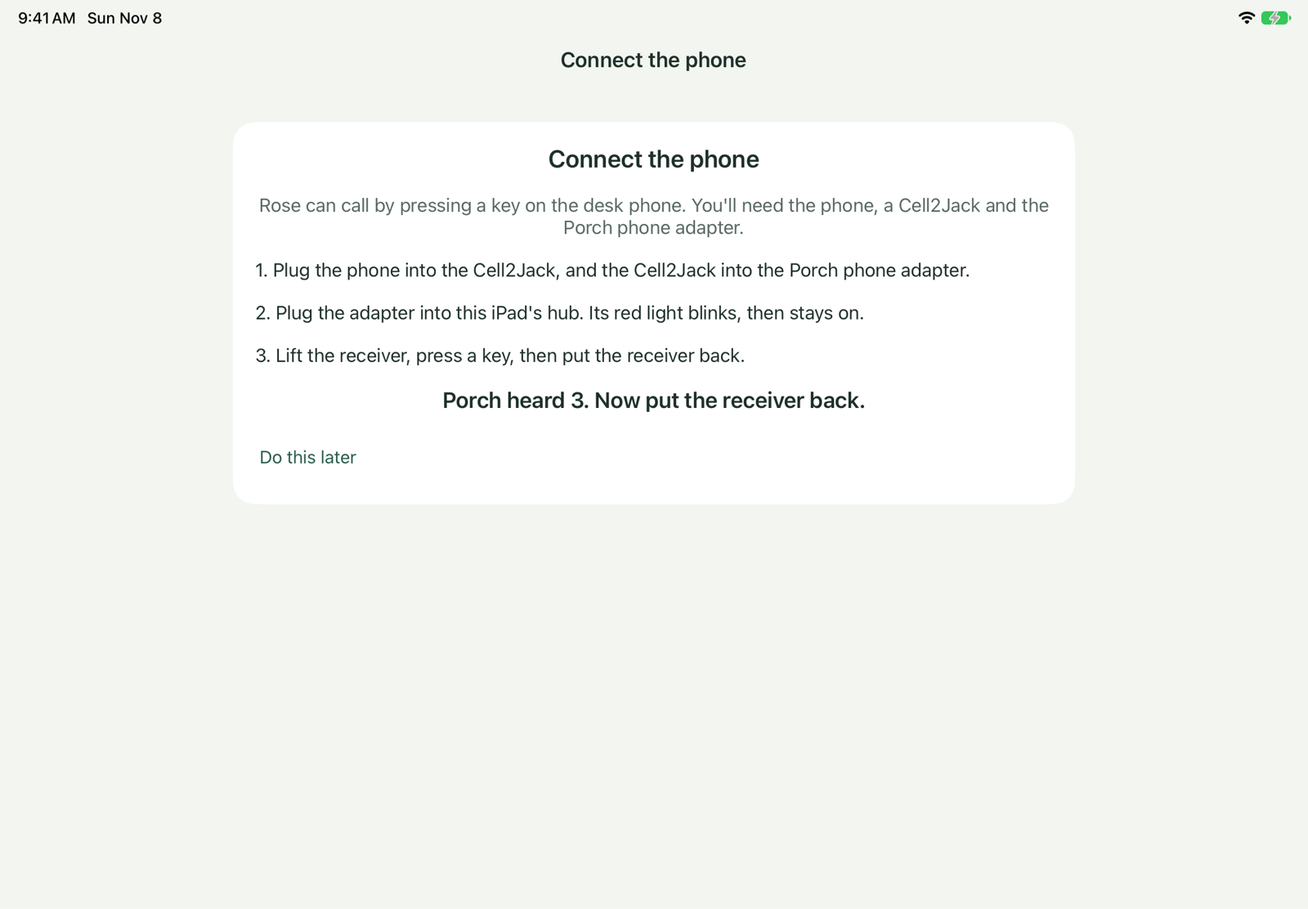
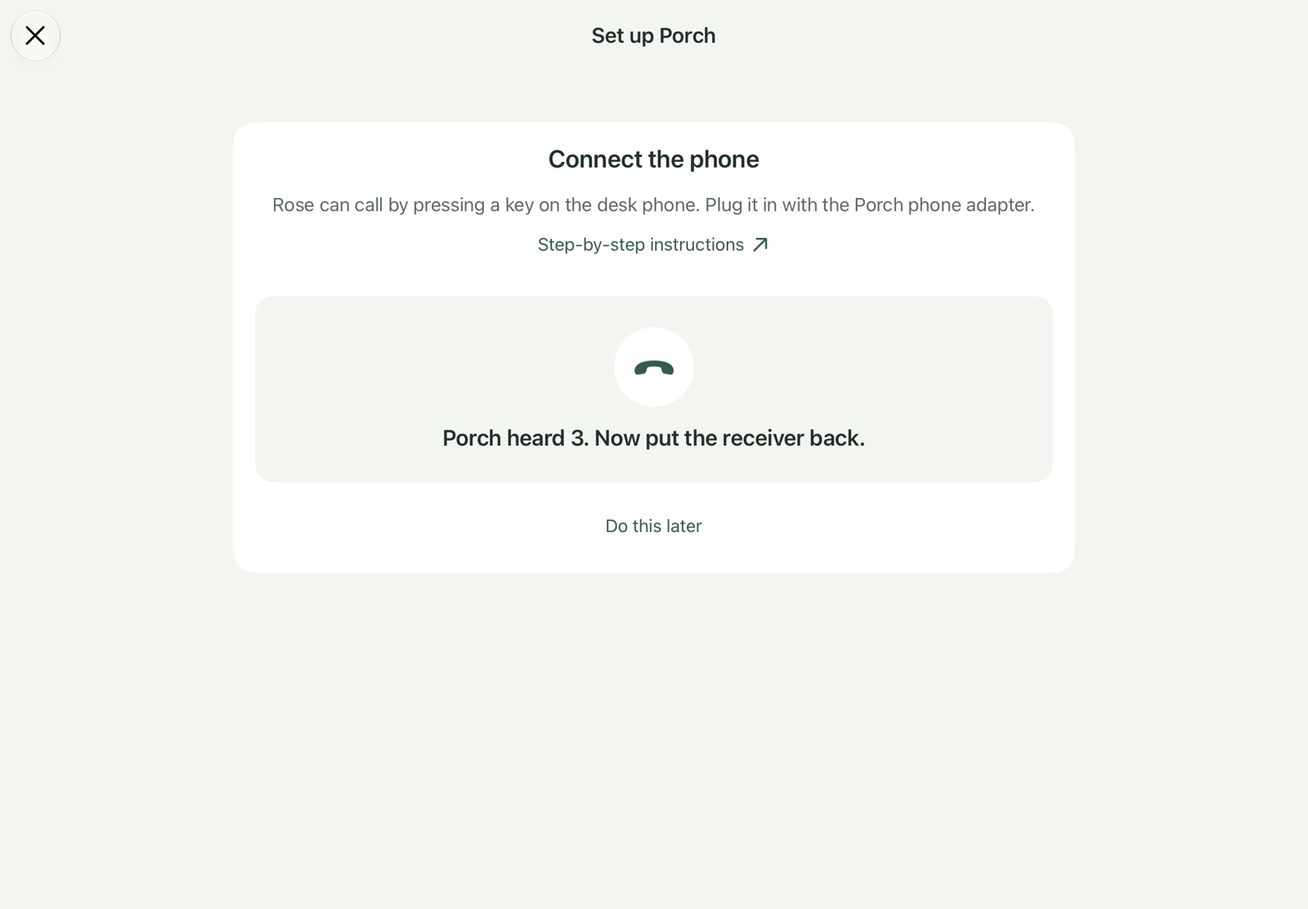
feat: redesign Connect the phone and make the adapter the site's default
Connect the phone now centres on a panel with a round badge whose icon
shows the step (waiting, press a key, put the receiver back, a filled
check when done) over the status. The guide is a centred
"Step-by-step instructions" link to helloporch.store/pilot/ios#phone
instead of the full address, Do this later and Just the touchscreen are
centred, and the M-chip note is a footnote under a rule.

The iPad guide, the pilot page and the pricing FAQ now say every iPad
family gets the Porch phone adapter. The guide's M-chip steps move into
a tip that starts from the note Porch shows, the pilot page drops "Does
my iPad need the adapter?", and the guide's Connect the phone screenshot
shows the new design.

diff --git a/app/(site)/pilot/ios/page.tsx b/app/(site)/pilot/ios/page.tsx
@@ -1,5 +1,5 @@
 import Link from "next/link";
-import { Chain, Choices, Contact, FilmedVideo, Guide, guideMetadata, Links, Questions, Says, Screenshot, StepVideo, Tip, UI, type GuidePart, type KitPart } from "../_guide/parts";
+import { Choices, Contact, FilmedVideo, Guide, guideMetadata, Links, Questions, Says, Screenshot, StepVideo, Tip, UI, type GuidePart, type KitPart } from "../_guide/parts";
 import { qrFor, testFlight, testFlightApp } from "../links";
 import { shopping } from "../shopping";
 
@@ -16,7 +16,7 @@ const kit: KitPart[] = [
   { name: "An iPad", rule: "iPadOS 15 or later", photo: "/pilot/ipad.jpg" },
   { name: "A big-button corded phone", ...shopping.phone, photo: "/pilot/phone.jpg" },
   { name: "A Cell2Jack", rule: "Connects the phone to the iPad", ...shopping.cell2jack, photo: "/pilot/cell2jack.jpg" },
-  { name: "The Porch phone adapter", rule: "Most iPads need this. I will mail it to you.", ...shopping.adapter, photo: "/pilot/adapter.jpg" },
+  { name: "The Porch phone adapter", rule: "I will mail it to you", ...shopping.adapter, photo: "/pilot/adapter.jpg" },
   { name: "A USB-C hub", ...shopping.hub, photo: "/pilot/hub.jpg" },
   { name: "A sturdy stand", rule: "Optional", ...shopping.stand, photo: "/pilot/stand.jpg" },
 ];
@@ -69,20 +69,14 @@ const parts: GuidePart[] = [
           covers phones, for you and the rest of the family.
         </p>
         <p>
-          Most iPads need the <strong>Porch phone adapter</strong> between the Cell2Jack and the hub. I’ll mail it to
-          you. Or, if you are in the Bay Area, I can bring it to you in-person. You can set up the iPad now and connect
-          the phone when the adapter arrives.
-        </p>
-        <p>
-          An iPad Pro from 2021 or later or an iPad Air from 2022 or later doesn’t need it. Porch’s setup calls these
-          iPads with an M chip. The standard iPad and the iPad mini always need the adapter. To see which iPad it is,
-          open <UI>Settings</UI>, then <UI>General</UI> and <UI>About</UI>. Send me what it says under{" "}
-          <UI>Model Name</UI> and I’ll tell you.
+          The <strong>Porch phone adapter</strong> connects the Cell2Jack to the iPad. I’ll mail it to you. Or, if you
+          are in the Bay Area, I can bring it to you in-person. You can set up the iPad now and connect the phone when
+          the adapter arrives.
         </p>
         <Tip>
           <p>
-            Allow about 30 minutes. Have the iPad, corded phone, Cell2Jack and your own phone nearby, and the adapter
-            if the iPad needs one.
+            Allow about 30 minutes. Have the iPad, corded phone, Cell2Jack, Porch phone adapter and your own phone
+            nearby.
           </p>
           <p>
             If you get stuck at any point, <Contact />.
@@ -162,8 +156,7 @@ const parts: GuidePart[] = [
             Tap <UI>Continue</UI> and allow the microphone and camera.
           </li>
           <li>
-            Choose <UI>Corded phone</UI>. If the iPad needs the phone adapter and it hasn’t arrived yet, tap{" "}
-            <UI>Do this later</UI>.
+            Choose <UI>Corded phone</UI>. If the adapter hasn’t arrived yet, tap <UI>Do this later</UI>.
           </li>
         </ol>
       </>
@@ -175,11 +168,11 @@ const parts: GuidePart[] = [
     body: (
       <>
         <p>
-          When Porch shows <UI>Connect the phone</UI>, follow the steps below. You’ll use the corded phone’s keys to
-          make and answer calls. You’ll see and hear the caller on the iPad and speak into the iPad’s microphone.
+          When Porch shows <UI>Connect the phone</UI>, follow the steps below. Its <UI>Step-by-step instructions</UI>{" "}
+          link opens this page. You’ll use the corded phone’s keys to make and answer calls. You’ll see and hear the
+          caller on the iPad and speak into the iPad’s microphone.
         </p>
-        <p>How you plug the phone in depends on whether the iPad needs the adapter.</p>
-        <h3>Most iPads, with the adapter</h3>
+        <h3>Plug in the phone</h3>
         <FilmedVideo
           src={connectPhoneVideo}
           poster="ios-connect-phone"
@@ -199,23 +192,23 @@ const parts: GuidePart[] = [
             seconds.
           </li>
         </ol>
-        <h3>iPad Pro (2021 or later) and iPad Air (2022 or later)</h3>
-        <Chain label="How it connects without the adapter" items={["Corded phone", "Cell2Jack", "USB-C hub", "iPad"]} />
-        <ol>
-          <li>
-            <strong>Plug the iPad’s charger into the hub first,</strong> and the hub into the iPad. The charger powers
-            the Cell2Jack as well as the iPad.
-          </li>
-          <li>Plug the phone’s cord into the Cell2Jack, and the Cell2Jack’s USB cable into the hub.</li>
-          <li>
-            On the <UI>Connect the phone</UI> screen, tap <UI>Open Settings</UI>. Turn on{" "}
-            <UI>Cell2Jack USB Driver</UI>, then go back to Porch.
-          </li>
-          <li>
-            Unplug the Cell2Jack from the hub for ten seconds and plug it back in. Porch shows{" "}
-            <UI>The phone is connected.</UI>
-          </li>
-        </ol>
+        <Tip label="If Porch says the iPad has an M chip">
+          <p>
+            The adapter works on every iPad. An iPad Pro from 2021 or later or an iPad Air from 2022 or later, with
+            iPadOS 16 or later, can also do without it. Porch says so at the bottom of <UI>Connect the phone</UI>. To
+            leave the adapter out:
+          </p>
+          <ol>
+            <li>Plug the Cell2Jack’s USB cable straight into the hub.</li>
+            <li>
+              Tap <UI>Open Settings</UI> under that note. Turn on <UI>Cell2Jack USB Driver</UI>, then go back to Porch.
+            </li>
+            <li>
+              Unplug the Cell2Jack from the hub for ten seconds and plug it back in. Porch shows{" "}
+              <UI>The phone is connected.</UI>
+            </li>
+          </ol>
+        </Tip>
         <h3>Then test the phone</h3>
         <ol>
           <li>
@@ -231,20 +224,20 @@ const parts: GuidePart[] = [
           width={1600}
           height={1112}
           device="tablet"
-          alt="The Connect the phone screen on an iPad, with three numbered steps and the message: Porch heard 3. Now put the receiver back."
+          alt="The Connect the phone screen on an iPad, with a Step-by-step instructions link and the message: Porch heard 3. Now put the receiver back."
           caption="The phone check after pressing 3. Hang up next."
         />
         <Tip label="If the phone keys don’t respond">
           <ul>
-            <li>Check the hub’s charger is plugged in, so the iPad can power the Cell2Jack, and the adapter if it has one.</li>
+            <li>Check the hub’s charger is plugged in, so the iPad can power the adapter and the Cell2Jack.</li>
             <li>
               If the adapter’s light keeps blinking, unplug the Cell2Jack from it for ten seconds and plug it back in.
             </li>
             <li>If the adapter’s light never comes on, try another USB-C cable. Some cables only charge.</li>
             <li>
-              Without the adapter, the Cell2Jack works only on an iPad Pro from 2021 or later or an iPad Air from 2022
-              or later, with iPadOS 16 or later. Tap <UI>Open Settings</UI> and check that <UI>Cell2Jack USB Driver</UI> is on. Then unplug the Cell2Jack for
-              ten seconds and plug it back in.
+              If you left the adapter out on an iPad with an M chip, tap <UI>Open Settings</UI> on{" "}
+              <UI>Connect the phone</UI> and check that <UI>Cell2Jack USB Driver</UI> is on. Then unplug the Cell2Jack
+              for ten seconds and plug it back in.
             </li>
             <li>Check that the switch on the phone is set to <UI>T</UI> or <UI>Tone</UI>.</li>
             <li>The keys only work while the receiver is lifted.</li>
@@ -480,10 +473,10 @@ const parts: GuidePart[] = [
               q: "The phone’s keys don’t do anything.",
               a: (
                 <p>
-                  Lift the receiver before pressing a key, and check that the charger is plugged into the hub. If the
-                  iPad uses the adapter, check that its red light is on. Then open caregiver mode, <UI>This iPad</UI>,
-                  and run <UI>Connect the phone</UI> again. Without the adapter, tap <UI>Open Settings</UI> there and
-                  check that <UI>Cell2Jack USB Driver</UI> is on.
+                  Lift the receiver before pressing a key, and check that the charger is plugged into the hub and the
+                  adapter’s red light is on. Then open caregiver mode, <UI>This iPad</UI>, and run{" "}
+                  <UI>Connect the phone</UI> again. If you left the adapter out on an iPad with an M chip, tap{" "}
+                  <UI>Open Settings</UI> there and check that <UI>Cell2Jack USB Driver</UI> is on.
                 </p>
               ),
             },
@@ -574,7 +567,7 @@ export default function IOSGuide() {
       }
       kit={{
         intro:
-          "Most iPads need the Porch phone adapter, which I’ll send you. Have the other parts ready before you connect the phone. Prices are approximate.",
+          "I’ll send you the Porch phone adapter. Have the other parts ready before you connect the phone. Prices are approximate.",
         parts: kit,
         ready: [
           "Wi-Fi where your loved one lives, and its password.",

diff --git a/ios/Porch/BedsideSetup.swift b/ios/Porch/BedsideSetup.swift
@@ -428,6 +428,7 @@ final class SetupCallingViewController: BedsideSetupStep {
             guard let self else { return }
             self.navigationController?.setViewControllers([self.setup.screen(from: .yourPhone)], animated: true)
         }
+        touchscreen.contentHorizontalAlignment = .center
         touchscreen.accessibilityIdentifier = "setup.touchscreen"
         form.addArrangedSubview(section("How will \(lovedOne) call?", detail: "\(lovedOne) presses a key to call someone. The touchscreen works too, whichever you choose.",
                                         views: options + [touchscreen]))
@@ -494,6 +495,9 @@ final class SetupPhoneViewController: BedsideSetupStep, Cell2JackDigitReceiving 
     /// Leaving, so a stop callback doesn't put the waiting text back up.
     private var leaving = false
     private let status = PorchStyle.label("", size: 20, color: PorchStyle.ink, weight: .semibold)
+    /// The step the check is on, as a picture over the status: plug in, press a key, put the receiver back, done.
+    private let badge = UIView()
+    private let statusIcon = UIImageView()
     private let proceed = PorchStyle.button("Continue", symbol: "arrow.right")
     private var later: UIButton?
     init(_ setup: BedsideSetup, keypad: Cell2JackKeypad = .shared, tryDriver: Bool = SetupPhoneViewController.offered,
@@ -511,29 +515,70 @@ final class SetupPhoneViewController: BedsideSetupStep, Cell2JackDigitReceiving 
         proceed.addAction(UIAction { [weak self] _ in self?.finish() }, for: .touchUpInside)
         status.textAlignment = .center; status.accessibilityIdentifier = "setup.phoneStatus"
         // The steps, the parts and the tips are on the website, which can change without an update.
-        let guide = textLink("Instructions at helloporch.store/pilot/ios") { [weak self] in if let self { showIPadGuide(on: self) } }
+        let guide = textLink("Step-by-step instructions") { [weak self] in if let self { showIPadGuide(on: self) } }
+        guide.configuration?.image = UIImage(systemName: "arrow.up.right", withConfiguration: UIImage.SymbolConfiguration(pointSize: 13, weight: .semibold))
+        guide.configuration?.imagePlacement = .trailing; guide.configuration?.imagePadding = 6
+        guide.contentHorizontalAlignment = .center
+        guide.accessibilityHint = "Opens the iPad setup guide on helloporch.store."
         guide.accessibilityIdentifier = "setup.phoneGuide"
         let later = textLink("Do this later") { [weak self] in self?.finish() }
+        later.contentHorizontalAlignment = .center
         later.accessibilityIdentifier = "setup.phoneLater"; self.later = later
-        var views: [UIView] = [guide, status, proceed, later]
-        if tryDriver && mChip {
-            // A footnote: the Cell2Jack can plug straight in, with the USB driver turned on in Settings. The guide's
-            // steps for that start from Open Settings here.
-            let note = PorchStyle.label("This iPad has an M chip, so it doesn't need the Porch phone adapter.", size: 15)
-            note.accessibilityIdentifier = "setup.phoneMChip"
-            let settings = textLink("Open Settings", size: 15) {
-                if let url = URL(string: UIApplication.openSettingsURLString) { UIApplication.shared.open(url) }
-            }
-            settings.accessibilityIdentifier = "setup.phoneSettings"
-            views += [note, settings]
+        var views: [UIView] = [guide, progressPanel(), proceed, later]
+        if tryDriver && mChip { views.append(mChipNote()) }
+        let card = section("Connect the phone", detail: "\(lovedOne) can call by pressing a key on the desk phone. Plug it in with the Porch phone adapter.",
+                           views: views)
+        if let stack = card.subviews.first as? UIStackView, let detail = stack.arrangedSubviews.dropFirst().first {
+            // The link reads as part of the explanation above it, and the panel stands apart from both.
+            stack.setCustomSpacing(4, after: detail); stack.setCustomSpacing(24, after: guide)
         }
-        form.addArrangedSubview(section("Connect the phone", detail: "\(lovedOne) can call by pressing a key on the desk phone. Plug it in with the Porch phone adapter.",
-                                        views: views))
+        form.addArrangedSubview(card)
         NotificationCenter.default.addObserver(self, selector: #selector(keyboardChanged), name: .GCKeyboardDidConnect, object: nil)
         NotificationCenter.default.addObserver(self, selector: #selector(keyboardChanged), name: .GCKeyboardDidDisconnect, object: nil)
         if tryDriver { NotificationCenter.default.addObserver(self, selector: #selector(keypadChanged), name: .cell2JackKeypadChanged, object: nil) }
         progress = connected ? .connected : .waiting
         render(announce: false)
+    }
+    /// The status, under a round badge whose icon shows the step it's on. It's the part of the screen that changes, so
+    /// it sits apart on the page colour.
+    private func progressPanel() -> UIView {
+        statusIcon.preferredSymbolConfiguration = UIImage.SymbolConfiguration(pointSize: 30, weight: .medium)
+        statusIcon.isAccessibilityElement = false
+        badge.layer.cornerRadius = 36
+        let row = UIView()
+        for view in [badge, statusIcon] { view.translatesAutoresizingMaskIntoConstraints = false }
+        row.addSubview(badge); badge.addSubview(statusIcon)
+        NSLayoutConstraint.activate([
+            badge.widthAnchor.constraint(equalToConstant: 72), badge.heightAnchor.constraint(equalToConstant: 72),
+            badge.centerXAnchor.constraint(equalTo: row.centerXAnchor),
+            badge.topAnchor.constraint(equalTo: row.topAnchor), badge.bottomAnchor.constraint(equalTo: row.bottomAnchor),
+            statusIcon.centerXAnchor.constraint(equalTo: badge.centerXAnchor), statusIcon.centerYAnchor.constraint(equalTo: badge.centerYAnchor),
+        ])
+        let panel = UIStackView(arrangedSubviews: [row, status])
+        panel.axis = .vertical; panel.spacing = 16
+        panel.isLayoutMarginsRelativeArrangement = true
+        panel.directionalLayoutMargins = .init(top: 28, leading: 24, bottom: 28, trailing: 24)
+        panel.backgroundColor = PorchStyle.page; panel.layer.cornerRadius = 16
+        return panel
+    }
+    /// A footnote under a rule, for an iPad known to have an M chip: the Cell2Jack can plug straight in, with the USB
+    /// driver turned on in Settings. The guide's steps for that start from Open Settings here.
+    private func mChipNote() -> UIView {
+        let rule = UIView()
+        rule.backgroundColor = PorchStyle.border
+        rule.heightAnchor.constraint(equalToConstant: 1 / max(traitCollection.displayScale, 1)).isActive = true
+        let note = PorchStyle.label("This iPad has an M chip, so it doesn't need the Porch phone adapter.", size: 15)
+        note.textAlignment = .center
+        note.accessibilityIdentifier = "setup.phoneMChip"
+        let settings = textLink("Open Settings", size: 15) {
+            if let url = URL(string: UIApplication.openSettingsURLString) { UIApplication.shared.open(url) }
+        }
+        settings.contentHorizontalAlignment = .center
+        settings.accessibilityIdentifier = "setup.phoneSettings"
+        let stack = UIStackView(arrangedSubviews: [rule, note, settings])
+        stack.axis = .vertical; stack.spacing = 2
+        stack.setCustomSpacing(18, after: rule)
+        return stack
     }
     /// The Cell2Jack is answering on the driver, as opposed to a keyboard the iPad can see.
     private var driverReady: Bool { tryDriver && keypad.isReady }
@@ -661,6 +706,17 @@ final class SetupPhoneViewController: BedsideSetupStep, Cell2JackDigitReceiving 
         case .heard(let symbol): status.text = "Porch heard \(symbol). Now put the receiver back."
         case .done(let text): status.text = text
         }
+        let symbol: String
+        switch progress {
+        case .waiting: symbol = "phone.connection"
+        case .connected: symbol = "circle.grid.3x3.fill"
+        case .heard: symbol = "phone.down.fill"
+        case .done: symbol = "checkmark"
+        }
+        statusIcon.image = UIImage(systemName: symbol)
+        // Done fills the badge in. Waiting is grey until the phone is there.
+        badge.backgroundColor = checked ? PorchStyle.accent : PorchStyle.surface
+        statusIcon.tintColor = checked ? .white : progress == .waiting ? PorchStyle.secondary : PorchStyle.accent
         proceed.isHidden = !checked; later?.isHidden = checked
         if announce { UIAccessibility.post(notification: .announcement, argument: status.text) }
     }

diff --git a/app/(site)/pilot/page.tsx b/app/(site)/pilot/page.tsx
@@ -19,17 +19,17 @@ export const metadata: Metadata = pageMetadata({
   image: { url: "/og/pilot.jpg", alt: "HelloPorch: Join the Porch pilot. Beside the Porch prototype, a tablet and a big-button phone." },
 });
 
-// What a family needs. The big-button corded phone, through a Cell2Jack, is the only way to call. On an iPad without
-// an M chip it also goes through the Porch phone adapter (phone-adapter/), which I flash and test, then mail or drop
-// off, so it is free and has no link. An iPad with an M chip takes the Cell2Jack straight in, through Porch's USB
-// driver. The tablet has no price: most families use one they have. The links are the ones I use, on Amazon, and the
-// prices are roughly what they cost there. The pages name the iPads with an M chip instead of the chip, which families
-// don't know: iPad Pro from 2021 and iPad Air from 2022. The standard iPad and the iPad mini have none.
+// What a family needs. The big-button corded phone, through a Cell2Jack, is the only way to call. On an iPad it also
+// goes through the Porch phone adapter (phone-adapter/), which I flash and test, then mail or drop off, so it is free and
+// has no link. Every iPad family gets one, whatever the iPad, so the pages don't ask families which iPad they have; an
+// iPad with an M chip could take the Cell2Jack straight in, and Porch and the iPad guide mention that. The tablet has
+// no price: most families use one they have. The links are the ones I use, on Amazon, and the prices are roughly what
+// they cost there.
 const KIT: { name: string; rule: string; price?: string; optional?: boolean; photo: string; href?: string }[] = [
   { name: "A tablet", rule: "iPad or Android", photo: "/pilot/ipad.jpg" },
   { name: "A big-button corded phone", rule: "Any brand", ...shopping.phone, photo: "/pilot/phone.jpg" },
   { name: "A Cell2Jack", rule: "Must be a Cell2Jack", ...shopping.cell2jack, photo: "/pilot/cell2jack.jpg" },
-  { name: "A Porch phone adapter", rule: "Most iPads need this. I will mail it to you.", ...shopping.adapter, photo: "/pilot/adapter.jpg" },
+  { name: "A Porch phone adapter", rule: "For iPads. I will mail it to you.", ...shopping.adapter, photo: "/pilot/adapter.jpg" },
   { name: "A USB-C hub", rule: "Any brand", ...shopping.hub, photo: "/pilot/hub.jpg" },
   { name: "A sturdy stand", rule: "Any brand", ...shopping.stand, optional: true, photo: "/pilot/stand.jpg" },
 ];
@@ -62,7 +62,7 @@ const STEPS: { title: string; text: string[] }[] = [
 const QUESTIONS: { q: string; a: ReactNode }[] = [
   {
     q: "Do I need to buy a tablet from HelloPorch?",
-    a: "No. Porch is an app you install on a compatible tablet you already own or purchase yourself. For the current pilot, you’ll also need a big-button phone, a Cell2Jack and a USB-C hub. Most iPads also need one more small adapter, which I’ll provide.",
+    a: "No. Porch is an app you install on a compatible tablet you already own or purchase yourself. For the current pilot, you’ll also need a big-button phone, a Cell2Jack and a USB-C hub. With an iPad, you’ll also use one more small adapter, which I’ll provide.",
   },
   {
     q: "Can I use a tablet I already own?",
@@ -70,7 +70,7 @@ const QUESTIONS: { q: string; a: ReactNode }[] = [
   },
   {
     q: "Do I need a special phone?",
-    a: "No. A corded phone with big buttons works best, especially one with room for photos on the keys. You’ll need a Cell2Jack adapter to connect it. With most iPads, it also goes through a Porch phone adapter, which I’ll provide.",
+    a: "No. A corded phone with big buttons works best, especially one with room for photos on the keys. You’ll need a Cell2Jack adapter to connect it. With an iPad, it also goes through a Porch phone adapter, which I’ll provide.",
   },
   {
     q: "How do I put photos on the phone buttons?",
@@ -78,11 +78,7 @@ const QUESTIONS: { q: string; a: ReactNode }[] = [
   },
   {
     q: "What is the Porch phone adapter?",
-    a: "A small board that lets an iPad read the buttons on the phone through the Cell2Jack. I’ll provide it, already set up and tested. I’ll mail it to you, or drop it off if you live nearby. Android tablets don’t need it, and neither does an iPad Pro from 2021 or later or an iPad Air from 2022 or later.",
-  },
-  {
-    q: "Does my iPad need the adapter?",
-    a: "Yes, unless it’s an iPad Pro from 2021 or later or an iPad Air from 2022 or later. Those can read the Cell2Jack directly. The standard iPad and the iPad mini always need the adapter. To see which iPad you have, open Settings, then General and About. Send me what it says under Model Name and I’ll tell you.",
+    a: "A small board that lets an iPad read the buttons on the phone through the Cell2Jack. I’ll provide it, already set up and tested. I’ll mail it to you, or drop it off if you live nearby. Every iPad family gets one. Android tablets don’t need it.",
   },
   {
     q: "How do family members call?",
@@ -143,9 +139,8 @@ export default function PilotPage() {
                 Cell2Jack adapter and a USB-C hub. A sturdy tablet stand is helpful, but optional.
               </p>
               <p className={styles.glanceText}>
-                Most iPads also need a Porch phone adapter for the phone. I’ll provide this, already set up and tested,
-                and mail it to you, or drop it off if you live nearby. An iPad Pro from 2021 or later or an iPad Air
-                from 2022 or later doesn’t need it.
+                With an iPad, the phone also goes through a Porch phone adapter. I’ll provide this, already set up and
+                tested, and mail it to you, or drop it off if you live nearby.
               </p>
               <p className={styles.glanceText}>
                 You may already have some of what you need. Here’s the hardware for the current pilot.

diff --git a/ios/PorchTests/CaregiverInputTests.swift b/ios/PorchTests/CaregiverInputTests.swift
@@ -2247,8 +2247,8 @@ final class BedsideSetupTests: XCTestCase {
             let case_ = "driver \(tryDriver), M chip \(mChip)"
             XCTAssertTrue(texts.contains("Mom can call by pressing a key on the desk phone. Plug it in with the Porch phone adapter."), case_)
             let guide = try XCTUnwrap(buttons(in: screen.view).first { $0.accessibilityIdentifier == "setup.phoneGuide" }, case_)
-            XCTAssertEqual(guide.configuration?.title, "Instructions at helloporch.store/pilot/ios")
-            XCTAssertEqual(iPadGuideURL.absoluteString, "https://helloporch.store/pilot/ios")
+            XCTAssertEqual(guide.configuration?.title, "Step-by-step instructions", "A link, not the address")
+            XCTAssertEqual(iPadGuideURL.absoluteString, "https://helloporch.store/pilot/ios#phone")
             XCTAssertFalse(texts.contains { $0.hasPrefix("1. ") || $0.hasPrefix("• ") || $0 == "Not working?" || $0.contains("You'll need") },
                            "The steps, parts and tips are on the guide: \(texts)")
             let note = texts.contains("This iPad has an M chip, so it doesn't need the Porch phone adapter.")

diff --git a/app/(site)/pricing/page.tsx b/app/(site)/pricing/page.tsx
@@ -32,7 +32,7 @@ const questions = [
   },
   {
     question: "Does the price include the tablet or the phone?",
-    answer: "No. This is a software subscription. You’ll need an iPad or Android tablet, home Wi-Fi, a big-button corded phone and a Cell2Jack to connect it. With most iPads, the phone also goes through a small Porch phone adapter, which we provide. Our pilot page lists the equipment, with links to the ones we use.",
+    answer: "No. This is a software subscription. You’ll need an iPad or Android tablet, home Wi-Fi, a big-button corded phone and a Cell2Jack to connect it. With an iPad, the phone also goes through a small Porch phone adapter, which we provide. Our pilot page lists the equipment, with links to the ones we use.",
   },
   {
     question: "What happens if we replace the tablet?",

diff --git a/ios/Porch/FamilyViewControllers.swift b/ios/Porch/FamilyViewControllers.swift
@@ -11,8 +11,8 @@ let privacyPolicyURL = URL(string: "https://helloporch.store/privacy")!
 func showPrivacyPolicy(on controller: UIViewController) {
     controller.present(SFSafariViewController(url: privacyPolicyURL), animated: true)
 }
-/// The iPad setup guide, which has the steps for plugging in the desk phone, the parts and the tips.
-let iPadGuideURL = URL(string: "https://helloporch.store/pilot/ios")!
+/// The iPad setup guide, at its part on the desk phone: the steps for plugging it in, the parts and the tips.
+let iPadGuideURL = URL(string: "https://helloporch.store/pilot/ios#phone")!
 func showIPadGuide(on controller: UIViewController) {
     controller.present(SFSafariViewController(url: iPadGuideURL), animated: true)
 }

diff --git a/ios/FAMILY-SETUP.md b/ios/FAMILY-SETUP.md
@@ -5,7 +5,7 @@ One universal Porch app supports iPad bedside mode and iPhone/iPad family mode. 
 ## Pair your family
 
 1. Install the same updated TestFlight build on Mom's iPad and family members' iPhones.
-2. Open the setup link on the iPad: it opens Porch and starts setup. Without the link, tap **Set up Porch for someone** or the **gear**, and paste it. Setup is one screen at a time, with as few choices as possible: who this Porch is for, a six-digit caregiver PIN entered twice, the Porch number (one tap: Porch fills in an area code near the iPad, and **Use a different area code** picks another first), then **Continue** asks for the microphone and camera. **How will Mom call?** comes next: **Corded phone** ("A desk phone, plugged in with the Porch phone adapter.") or **Just the touchscreen**, which goes straight on. Every family gets the [Porch phone adapter](../phone-adapter/README.md), which works with any iPad and needs no driver, so that's all Porch says about the parts. The touchscreen works whichever you choose. **Corded phone** opens **Connect the phone**, which says to plug the phone in with the adapter and links to **Instructions at helloporch.store/pilot/ios** for the steps, the parts and the tips (it opens in Safari inside Porch). Then lift the receiver and press a key ("Porch heard 3.") and put it back ("Porch heard you hang up."). In builds with the Cell2Jack driver, the same screen also listens for a Cell2Jack plugged straight into an iPad with an M chip, and Porch turns the phone keypad on itself once it answers. It goes on with whichever answers, and checks a key and hanging up the same way. Porch looks up the iPad's model: on one it knows has no M chip (the standard iPad, the iPad mini, and the iPad Pro before 2021 or iPad Air before 2022) it listens only for the adapter and leaves the driver out; a model it doesn't know, such as one newer than Porch, gets both. Only on an iPad it knows has an M chip does the screen add a small note, "This iPad has an M chip, so it doesn't need the Porch phone adapter.", with **Open Settings** for the USB driver. **Do this later** goes on without the check. Before the phone is checked, **Do this later** or going back to choose again turns off the phone keypad if that screen turned it on; once "The phone is ready." it stays on. In caregiver mode, **This iPad → Connect the physical phone** has **Connect the phone**, which opens the same screen, and **Hang up when the receiver is put back**, in every build. Where the driver can work it also has **Open app settings**, for the USB driver. There's no switch for a Cell2Jack plugged straight in: Connect the phone turns it on, and it stays on until the phone is checked there through the adapter with nothing on the driver, as when an iPad moves to the adapter. **Add your phone** asks for your name, then shows a QR code of a one-use invitation with caregiver mode and drop-in approved: point your iPhone's Camera at it, or tap **Send the invitation instead**. It shows when your phone has joined, and **Continue** works either way. **Done** explains who can call the number. After that the gear (or a half-second hold) asks for the PIN. If setup stopped after the PIN, such as when Porch was closed, the PIN goes on from the number step. An already-paired iPad needs no preset code, an older installation can enroll using its saved credentials, and one paired before PINs existed chooses its PIN on first caregiver entry. Tap the name at the top of caregiver mode to change it; the Porch number is under it. To hand an iPad that's already a bedside on to someone else, open the new setup link on it: Porch asks **Replace Mom's Porch?**, and **Replace** starts setup for the new Porch. Nothing changes until its PIN step, so **Cancel** on the first screen keeps Mom's. At the PIN step the iPad stops ringing for Mom's family, then removes Mom's keypad and its photos, messages it hadn't sent, and its call, message, camera and display settings. The Cell2Jack settings stay with the iPad, as do any families it's in as a family device. Mom's household, with its number and family, stays on Porch without a bedside.
+2. Open the setup link on the iPad: it opens Porch and starts setup. Without the link, tap **Set up Porch for someone** or the **gear**, and paste it. Setup is one screen at a time, with as few choices as possible: who this Porch is for, a six-digit caregiver PIN entered twice, the Porch number (one tap: Porch fills in an area code near the iPad, and **Use a different area code** picks another first), then **Continue** asks for the microphone and camera. **How will Mom call?** comes next: **Corded phone** ("A desk phone, plugged in with the Porch phone adapter.") or **Just the touchscreen**, which goes straight on. Every family gets the [Porch phone adapter](../phone-adapter/README.md), which works with any iPad and needs no driver, so that's all Porch says about the parts. The touchscreen works whichever you choose. **Corded phone** opens **Connect the phone**, which says to plug the phone in with the adapter and has a **Step-by-step instructions** link to the phone part of the iPad guide (helloporch.store/pilot/ios#phone, opened in Safari inside Porch) for the steps, the parts and the tips. A panel under it shows each step of the check with an icon: lift the receiver and press a key ("Porch heard 3.") and put it back ("Porch heard you hang up."), then a check mark and **Continue**. In builds with the Cell2Jack driver, the same screen also listens for a Cell2Jack plugged straight into an iPad with an M chip, and Porch turns the phone keypad on itself once it answers. It goes on with whichever answers, and checks a key and hanging up the same way. Porch looks up the iPad's model: on one it knows has no M chip (the standard iPad, the iPad mini, and the iPad Pro before 2021 or iPad Air before 2022) it listens only for the adapter and leaves the driver out; a model it doesn't know, such as one newer than Porch, gets both. Only on an iPad it knows has an M chip does the screen add a footnote, "This iPad has an M chip, so it doesn't need the Porch phone adapter.", with **Open Settings** for the USB driver. **Do this later** goes on without the check. Before the phone is checked, **Do this later** or going back to choose again turns off the phone keypad if that screen turned it on; once "The phone is ready." it stays on. In caregiver mode, **This iPad → Connect the physical phone** has **Connect the phone**, which opens the same screen, and **Hang up when the receiver is put back**, in every build. Where the driver can work it also has **Open app settings**, for the USB driver. There's no switch for a Cell2Jack plugged straight in: Connect the phone turns it on, and it stays on until the phone is checked there through the adapter with nothing on the driver, as when an iPad moves to the adapter. **Add your phone** asks for your name, then shows a QR code of a one-use invitation with caregiver mode and drop-in approved: point your iPhone's Camera at it, or tap **Send the invitation instead**. It shows when your phone has joined, and **Continue** works either way. **Done** explains who can call the number. After that the gear (or a half-second hold) asks for the PIN. If setup stopped after the PIN, such as when Porch was closed, the PIN goes on from the number step. An already-paired iPad needs no preset code, an older installation can enroll using its saved credentials, and one paired before PINs existed chooses its PIN on first caregiver entry. Tap the name at the top of caregiver mode to change it; the Porch number is under it. To hand an iPad that's already a bedside on to someone else, open the new setup link on it: Porch asks **Replace Mom's Porch?**, and **Replace** starts setup for the new Porch. Nothing changes until its PIN step, so **Cancel** on the first screen keeps Mom's. At the PIN step the iPad stops ringing for Mom's family, then removes Mom's keypad and its photos, messages it hadn't sent, and its call, message, camera and display settings. The Cell2Jack settings stay with the iPad, as do any families it's in as a family device. Mom's household, with its number and family, stays on Porch without a bedside.
 3. In **People**, tap an empty key, keep **Person** selected and choose **Invite them** (or **Choose from Family on Porch** for someone already on Porch). Audio and video drop-in start approved, and a bedside set up from the app starts with drop-in on; turn either off for someone who shouldn't connect without a call being answered. Porch asks for the corresponding iPad media permissions during setup. Their page then sets **Calls start as → Voice / Video** (video for someone new), their button color and their phone. You can also invite someone from **People → Invite someone** without putting them on the keypad.
 4. Share the private invitation using the system share sheet. It's a link such as `https://helloporch.store/join#code=…`.
    - **With Porch installed,** tapping it on their iPhone opens Porch and joins.
